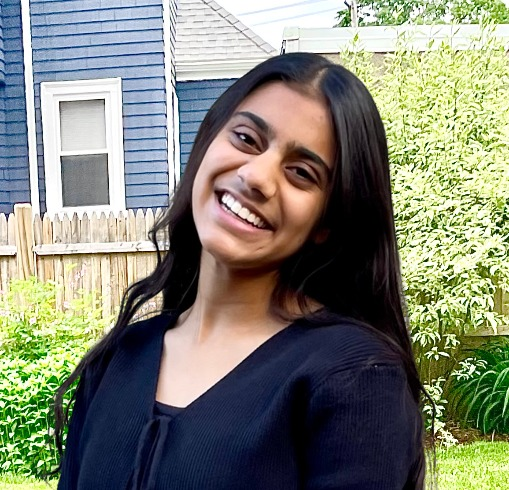
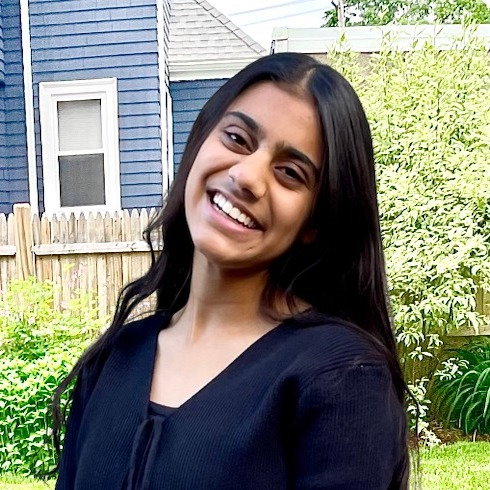
added new images

diff --git a/css/team.css b/css/team.css
@@ -289,6 +289,8 @@ html, body {
 .memberPic{
   width:100%;
   padding:0;
+  height: 100%;
+  
 }
 
 .officerPictures{
